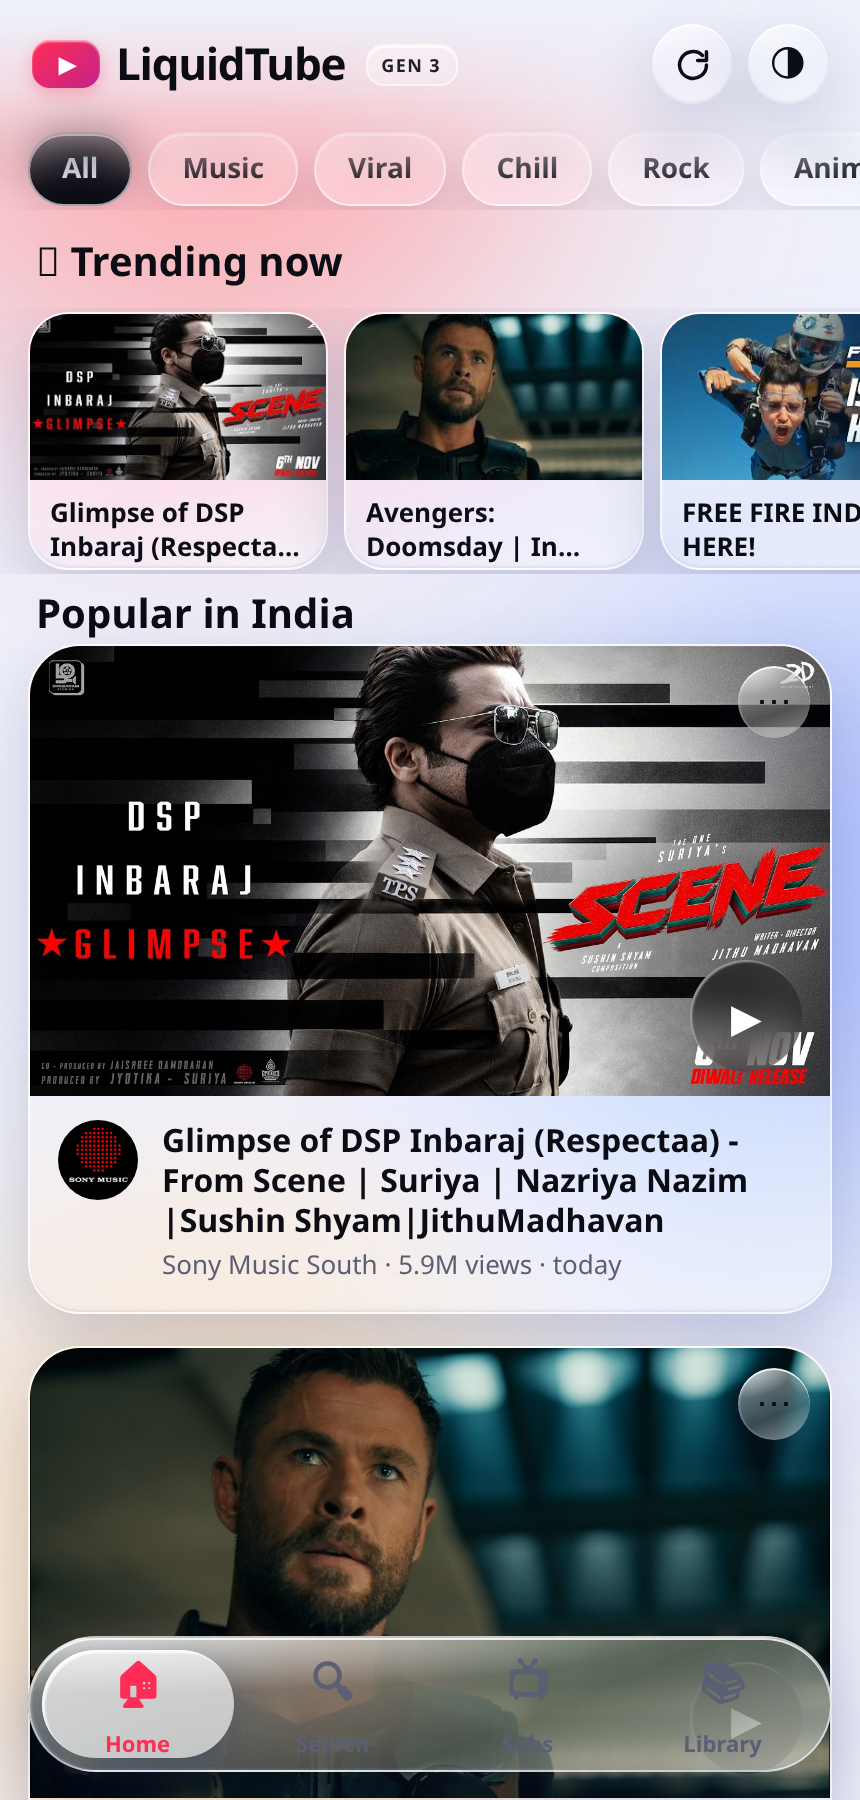
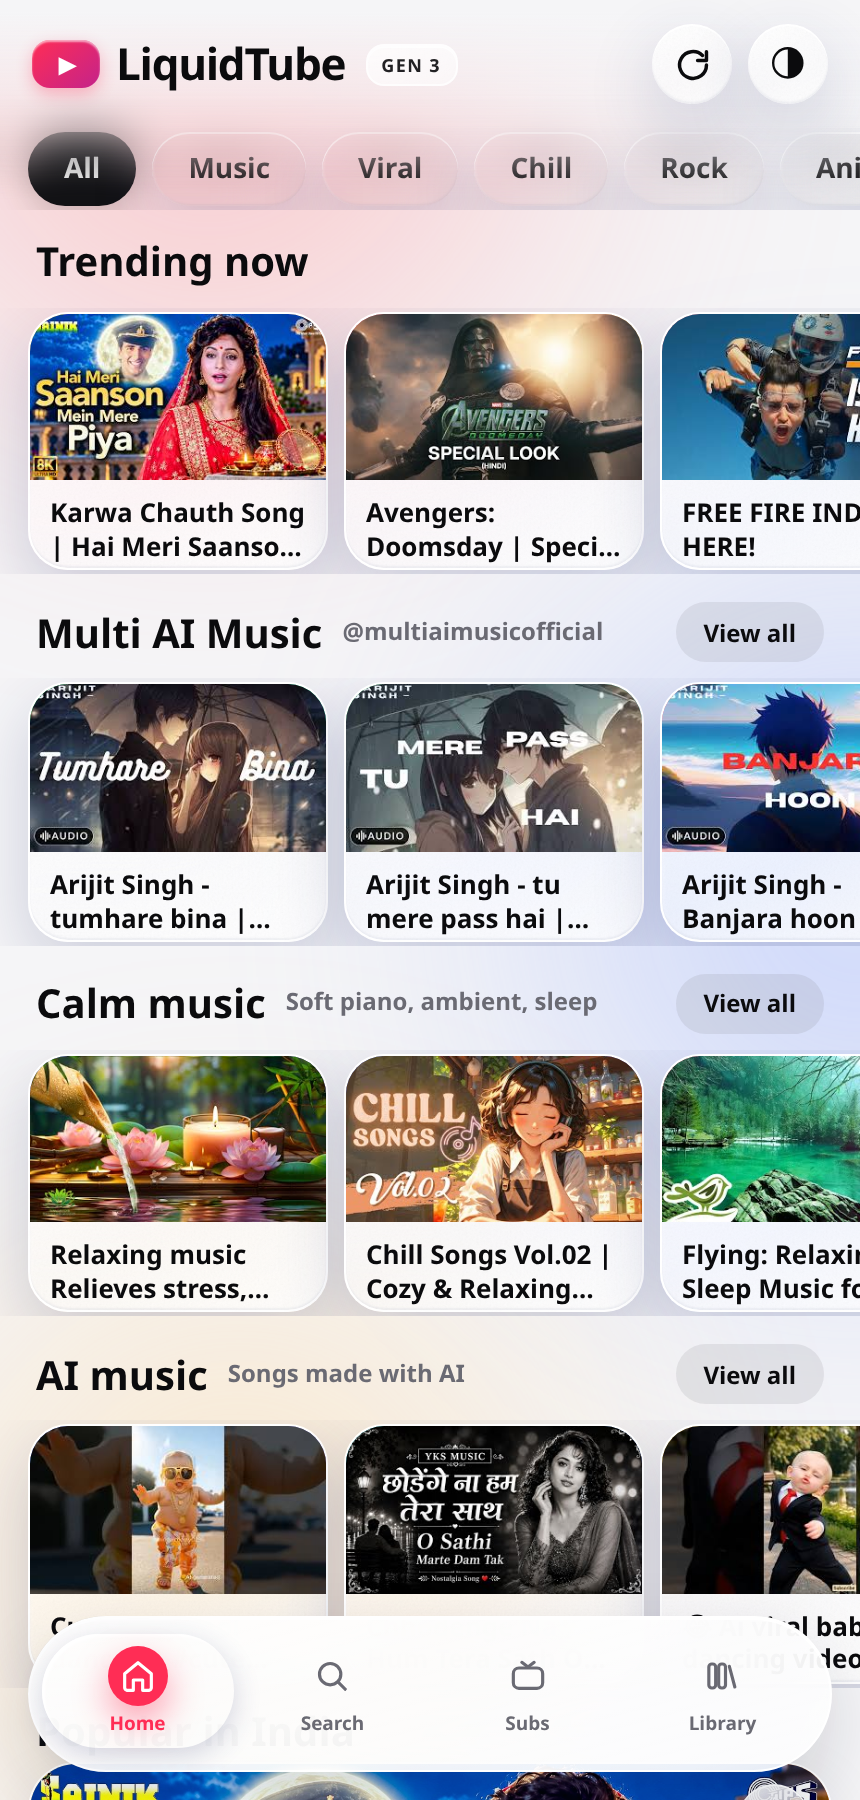
LiquidTube 5.0 — concept-video redesign pass
- Light palette switched to YouTube-white with near-black type; blobs at 42%.
- Chips: solid near-black when selected, soft grey glass otherwise.
- Cards: 24px radius, soft shadow, Play pill on the meta row.
- Section headers carry a View all pill; the trailing chip is gone.
- Dock rebuilt as the concept's floating white pill with drawn outline icons and a
  red circle behind the active tab (nav element now carries class 'dock').
- Restored the home shelves (Multi AI Music channel row, Calm music, AI music) that
  had gone missing from the shipped source.
- All existing features kept: search, channel sections, player toggles, loop via
  jsapi, refresh, splash, comments, library.
- APK rebuilt as versionCode 20 / versionName 5.0.

diff --git a/app/assets/index.html b/app/assets/index.html
@@ -5,8 +5,8 @@
 <meta name="viewport" content="width=device-width, initial-scale=1, viewport-fit=cover">
 <title>LiquidTube</title>
 <style>
-/* sheets */:root{--sh1:rgba(255,255,255,.86);--sh2:rgba(255,255,255,.70);--g1:rgba(255,255,255,.50);--g2:rgba(255,255,255,.20);--gedge:rgba(255,255,255,.62);--gshine:rgba(255,255,255,.85);--gdark:rgba(120,140,200,.16);--gblur:blur(38px) saturate(190%);
---bg:#eef0fa;--tx:#0b0c14;--tx2:#5b5f73;--glass:rgba(255,255,255,.42);--glass2:rgba(255,255,255,.66);--edge:rgba(255,255,255,.85);--edge2:rgba(255,255,255,.22);--sh:rgba(40,50,110,.2);--red:#ff2d55;--b1:#ff9a9e;--b2:#9db4ff;--b3:#ffd9a0;color-scheme:light;box-sizing:border-box;padding-top:env(safe-area-inset-top,0px);padding-bottom:env(safe-area-inset-bottom,0px)}
+/* sheets */:root{--sh1:rgba(255,255,255,.86);--sh2:rgba(255,255,255,.70);--g1:rgba(255,255,255,.86);--g2:rgba(255,255,255,.58);--gedge:rgba(255,255,255,.95);--gshine:rgba(255,255,255,.98);--gdark:rgba(120,130,160,.10);--gblur:blur(38px) saturate(190%);
+--bg:#f5f5f7;--tx:#0b0b0d;--tx2:#6a6a73;--glass:rgba(255,255,255,.42);--glass2:rgba(255,255,255,.66);--edge:rgba(255,255,255,.85);--edge2:rgba(255,255,255,.22);--sh:rgba(40,50,110,.2);--red:#ff2d55;--b1:#ff9a9e;--b2:#9db4ff;--b3:#ffd9a0;color-scheme:light;box-sizing:border-box;padding-top:env(safe-area-inset-top,0px);padding-bottom:env(safe-area-inset-bottom,0px)}
 @media(prefers-color-scheme:dark){:root:not([data-theme="light"]){--bg:#0a0a14;--tx:#f4f5fb;--tx2:#a3a7bd;--glass:rgba(40,44,70,.42);--glass2:rgba(70,76,115,.62);--edge:rgba(255,255,255,.3);--edge2:rgba(255,255,255,.05);--sh:rgba(0,0,0,.55);--b1:#a3224a;--b2:#3a4fc4;--b3:#a8641c;color-scheme:dark;--g1:rgba(66,72,110,.46);--g2:rgba(24,28,46,.24);--gedge:rgba(255,255,255,.15);--gshine:rgba(255,255,255,.22);--gdark:rgba(0,0,0,.4);--sh1:rgba(44,48,76,.88);--sh2:rgba(22,26,42,.80)}}
 :root[data-theme="dark"]{--bg:#0a0a14;--tx:#f4f5fb;--tx2:#a3a7bd;--glass:rgba(40,44,70,.42);--glass2:rgba(70,76,115,.62);--edge:rgba(255,255,255,.3);--edge2:rgba(255,255,255,.05);--sh:rgba(0,0,0,.55);--b1:#a3224a;--b2:#3a4fc4;--b3:#a8641c;color-scheme:dark;--g1:rgba(66,72,110,.46);--g2:rgba(24,28,46,.24);--gedge:rgba(255,255,255,.15);--gshine:rgba(255,255,255,.22);--gdark:rgba(0,0,0,.4);--sh1:rgba(44,48,76,.88);--sh2:rgba(22,26,42,.80)}
 *{box-sizing:border-box;-webkit-tap-highlight-color:transparent}
@@ -14,7 +14,7 @@ html,body{height:100%;margin:0;background:var(--bg);color:var(--tx);font-family:
 body{display:flex;justify-content:center;align-items:center;overflow:hidden}
 .phone{position:relative;width:100%;max-width:430px;height:100%;max-height:900px;overflow:hidden;background:var(--bg)}
 @media(min-width:500px){.phone{height:min(880px,96%);border-radius:48px;box-shadow:0 0 0 10px #15161d,0 30px 80px var(--sh)}}
-.blob{position:absolute;border-radius:50%;filter:blur(64px);opacity:.78;animation:fl 16s ease-in-out infinite alternate}
+.blob{position:absolute;border-radius:50%;filter:blur(70px);opacity:.42;animation:fl 16s ease-in-out infinite alternate}
 .b1{width:300px;height:300px;background:var(--b1);top:-70px;left:-80px}.b2{width:280px;height:280px;background:var(--b2);top:360px;right:-100px;animation-delay:-5s}.b3{width:280px;height:280px;background:var(--b3);bottom:-60px;left:-50px;animation-delay:-10s}
 @keyframes fl{to{transform:translate(40px,-50px) scale(1.15)}}
 @media(prefers-color-scheme:dark){:root:not([data-theme="light"]) .blob{opacity:.62}}
@@ -44,18 +44,20 @@ body{display:flex;justify-content:center;align-items:center;overflow:hidden}
 .rb{width:40px;height:40px;border-radius:50%;border:0;color:var(--tx);font-size:18px;cursor:pointer}
 main{position:absolute;inset:0;overflow-y:auto;padding:64px 14px 120px;scrollbar-width:none}main::-webkit-scrollbar{display:none}
 .chips{display:flex;gap:8px;overflow-x:auto;margin:0 -14px 12px;padding:2px 14px;scrollbar-width:none}
-.chip{flex:none;padding:8px 16px;border-radius:18px;border:1px solid var(--gedge);font:inherit;font-size:14px;font-weight:700;color:var(--tx);cursor:pointer;
-  background:linear-gradient(158deg,var(--g1),var(--g2));-webkit-backdrop-filter:blur(22px) saturate(180%);backdrop-filter:blur(22px) saturate(180%);
-  box-shadow:inset 0 1px 0 var(--gshine),0 6px 18px rgba(40,50,110,.12);transition:transform .3s cubic-bezier(.22,1,.36,1)}
+.chip{flex:none;padding:9px 18px;border-radius:999px;border:0;font:inherit;font-size:14px;font-weight:700;color:var(--tx);cursor:pointer;
+  background:rgba(120,120,130,.12);-webkit-backdrop-filter:blur(20px) saturate(180%);backdrop-filter:blur(20px) saturate(180%);
+  transition:transform .3s cubic-bezier(.22,1,.36,1),background .25s ease,color .25s ease}
 .chip:active{transform:scale(.96)}
-.chip.on{background:var(--tx);color:var(--bg)}
-.v{border-radius:26px;overflow:hidden;margin-bottom:16px;cursor:pointer}
+.chip.on{background:#111114;color:#fff;box-shadow:0 6px 18px rgba(0,0,0,.18)}
+.v{border-radius:24px;overflow:hidden;margin-bottom:18px;cursor:pointer;box-shadow:0 10px 30px rgba(20,24,50,.10)}
 .th{height:200px;display:grid;place-items:center;font-size:72px;position:relative}
 .v .th{height:auto;aspect-ratio:16/9;border-radius:0}
 .v .th img{object-position:center}
 .th .pl{position:absolute;width:56px;height:56px;border-radius:50%;display:grid;place-items:center;font-size:20px;right:14px;bottom:12px;color:#fff;background:rgba(0,0,0,.35);backdrop-filter:blur(10px);box-shadow:inset 1px 1px 1px rgba(255,255,255,.5)}
 .th img{position:absolute;inset:0;width:100%;height:100%;object-fit:cover}
-.mt{display:flex;gap:12px;padding:12px 14px 14px}
+.mt{display:flex;gap:12px;padding:13px 14px 15px;align-items:flex-start}
+.mt .col{flex:1;min-width:0}
+.playpill{flex:none;display:inline-flex;align-items:center;gap:6px;height:34px;padding:0 15px;border-radius:999px;background:rgba(120,120,130,.14);color:var(--tx);font-size:13px;font-weight:800;border:0}
 .av{width:40px;height:40px;border-radius:50%;flex:none;display:grid;place-items:center;font-weight:800;color:#fff;font-size:16px;box-shadow:inset 1px 1px 1px rgba(255,255,255,.5)}
 .mt b{display:block;font-size:16px;line-height:1.25}.mt span{font-size:13px;color:var(--tx2)}
 .sbar{display:flex;align-items:center;gap:10px;border-radius:24px;padding:0 16px;height:50px;
@@ -68,7 +70,9 @@ main{position:absolute;inset:0;overflow-y:auto;padding:64px 14px 120px;scrollbar
 .row .txt{flex:1;min-width:0;padding-top:2px}
 .row b{font-size:14.5px;display:-webkit-box;-webkit-line-clamp:2;-webkit-box-orient:vertical;overflow:hidden;line-height:1.32}
 .row span{display:block;font-size:12px;color:var(--tx2);margin-top:4px;line-height:1.35}
-h2{font-size:20px;margin:18px 4px 10px}
+h2{font-size:20px;margin:18px 4px 10px;display:flex;align-items:center;justify-content:space-between;gap:10px;flex-wrap:nowrap;white-space:nowrap}
+h2 .vw{overflow:hidden;text-overflow:ellipsis;min-width:0;flex:1}
+.seeall{flex:none;height:30px;padding:0 14px;border-radius:999px;border:0;background:rgba(120,120,130,.14);color:var(--tx);font:inherit;font-size:12px;font-weight:800;cursor:pointer}
 .mini{flex:none;width:150px;border-radius:20px;overflow:hidden;cursor:pointer;align-self:flex-start}.mini .th{height:auto;aspect-ratio:16/9;font-size:36px}.mini b{display:-webkit-box;-webkit-line-clamp:2;-webkit-box-orient:vertical;overflow:hidden;font-size:13px;padding:8px 10px 11px;line-height:1.3;max-height:3.4em}
 #shorts{position:absolute;inset:0;z-index:4;overflow-y:scroll;scroll-snap-type:y mandatory;display:none;scrollbar-width:none}#shorts::-webkit-scrollbar{display:none}
 .sx{height:100%;scroll-snap-align:start;scroll-snap-stop:always;position:relative;display:grid;place-items:center;padding:62px 0 96px}
@@ -141,6 +145,25 @@ nav button.on{color:var(--red);background:var(--glass2);box-shadow:inset 1.5px 1
   color:var(--tx);background:linear-gradient(158deg,var(--g1),var(--g2));border:1px solid var(--gedge);
   box-shadow:inset 0 1px 0 var(--gshine);-webkit-backdrop-filter:blur(14px);backdrop-filter:blur(14px);opacity:.9}
 :focus-visible{outline:2px solid var(--red);outline-offset:2px}
+
+/* ---- dock (v5, matches the concept) ---- */
+nav.dock{height:78px;border-radius:39px;padding:8px 6px 11px;display:flex;gap:2px;
+  background:linear-gradient(165deg,rgba(255,255,255,.97),rgba(255,255,255,.86));
+  border:1px solid rgba(255,255,255,.98);
+  -webkit-backdrop-filter:blur(38px) saturate(190%);backdrop-filter:blur(38px) saturate(190%);
+  box-shadow:inset 0 1px 0 #fff,0 14px 38px rgba(20,24,50,.16)}
+nav.dock .dock-pill{display:none!important}
+nav.dock button{flex:1;display:flex;flex-direction:column;align-items:center;justify-content:center;gap:2px;
+  border:0;background:none;color:#6a6a73;font:inherit;font-size:9.5px;font-weight:700;cursor:pointer;padding:0;border-radius:30px}
+nav.dock button svg{width:30px;height:30px;padding:5px;box-sizing:border-box;border-radius:50%;
+  fill:none;stroke:currentColor;stroke-width:1.9;stroke-linecap:round;stroke-linejoin:round;background:transparent;
+  transition:background .28s ease,color .28s ease,transform .3s cubic-bezier(.22,1,.36,1)}
+nav.dock button:active svg{transform:scale(.9)}
+nav.dock button.on{color:#111114}
+nav.dock button.on svg{background:var(--red);color:#fff;box-shadow:0 8px 18px rgba(255,0,51,.38)}
+nav.dock button.on span{color:var(--red);font-weight:800}
+@media(prefers-color-scheme:dark){:root:not([data-theme="light"]) nav.dock{background:linear-gradient(165deg,rgba(58,62,92,.94),rgba(26,30,46,.88));border-color:rgba(255,255,255,.16)}}
+:root[data-theme="dark"] nav.dock{background:linear-gradient(165deg,rgba(58,62,92,.94),rgba(26,30,46,.88));border-color:rgba(255,255,255,.16)}
 </style>
 </head>
 <body>
@@ -196,7 +219,7 @@ img.av{width:40px;height:40px;border-radius:50%;object-fit:cover;flex:none;backg
   <div class="topscrim"></div>
   <div class="top"><div class="logo"><i>▶</i>LiquidTube<span class="gen">GEN 3</span></div><div style="display:flex;gap:8px"><button class="rb glass" id="rf" aria-label="Refresh"><svg viewBox="0 0 24 24" aria-hidden="true"><path d="M20.5 12a8.5 8.5 0 1 1-2.49-6.01"/><path d="M20.5 3.6v5.6h-5.6"/></svg></button><button class="rb glass" id="th" aria-label="Toggle theme">🌗</button></div></div>
   <main id="main"></main>
-  <nav class="glass" id="nav"></nav>
+  <nav class="dock" id="nav"></nav>
   <div id="shorts"></div>
   <div class="md" id="md"></div>
   <div class="pl8" id="pl"></div>
@@ -252,7 +275,67 @@ const save=()=>{try{localStorage.setItem('lt',JSON.stringify(S))}catch(e){}};
 const V={},CH={},FEED={trending:null,loading:false,error:''};
 FALL.forEach(v=>V[v.id]=v);
 let tab='home',cat='All',q='',cur=null,chanId='';
-const TABS=[['home','🏠','Home'],['shorts','🎬','Shorts'],['search','🔍','Search'],['subs','📺','Subs'],['lib','📚','Library']];
+const SHELVES=[
+  {id:'multiai',title:'Multi AI Music',sub:'Latest uploads',kind:'channel',ch:'UCNf1ThUNWLARtz8m86xOp1A'},
+  {id:'calm',title:'Calm music',sub:'Soft piano, ambient, sleep',q:'calm relaxing music playlist'},
+  {id:'aimusic',title:'AI music',sub:'Songs made with AI',q:'AI generated music song'}
+];
+let SHELF={};try{SHELF=JSON.parse(localStorage.getItem('lt_shelf')||'{}')||{}}catch(e){SHELF={}}
+const saveShelf=()=>{try{localStorage.setItem('lt_shelf',JSON.stringify(SHELF))}catch(e){}};
+function shelfItems(sh){
+  const e=SHELF[sh.id];
+  if(!e||!e.items||!e.items.length)return null;
+  if(Date.now()-(e.at||0)>12*3600e3)return null;
+  e.items.forEach(it=>vObj(it.id,it));
+  return e.items.map(it=>V[it.id]).filter(Boolean);
+}
+async function loadShelf(sh){
+  const c=shelfItems(sh);if(c)return c;
+  let list=[];
+  if(sh.kind==='channel'){
+    const ch=await ensureChannel(sh.ch);
+    if(!ch.up)throw new Error('no public uploads');
+    const j=await yt('playlistItems',{part:'snippet,contentDetails',playlistId:ch.up,maxResults:12});
+    list=(j.items||[]).filter(it=>it.snippet&&it.snippet.resourceId&&it.snippet.resourceId.videoId)
+      .map(it=>vObj(it.snippet.resourceId.videoId,{t:it.snippet.title,c:ch.title,ch:sh.ch,
+        img:bestTh(it.snippet.thumbnails),
+        pub:(it.contentDetails&&it.contentDetails.videoPublishedAt)||it.snippet.publishedAt,cat:sh.title}));
+  }else{
+    const j=await yt('search',{part:'snippet',type:'video',maxResults:10,q:sh.q});
+    list=(j.items||[]).filter(it=>it.id&&it.id.videoId).map(it=>vObj(it.id.videoId,
+      {t:it.snippet.title,c:it.snippet.channelTitle,ch:it.snippet.channelId,
+       img:bestTh(it.snippet.thumbnails),pub:it.snippet.publishedAt,cat:sh.title}));
+    await loadChannels(list.map(v=>v.ch));
+  }
+  SHELF[sh.id]={at:Date.now(),items:list.map(v=>({id:v.id,t:v.t,c:v.c,ch:v.ch,img:v.img,pub:v.pub,views:v.views}))};
+  saveShelf();
+  return list;
+}
+const shelfRow=sh=>{
+  const list=(shelfItems(sh)||[]).filter(ok).slice(0,8);
+  if(!list.length)return '';
+  return list.map(v=>'<div class="mini glass" data-v="'+v.id+'">'+thumb(v,'mini').replace('<div class="pl">▶</div>','')+'<b>'+esc(v.t)+'</b></div>').join('');
+};
+async function loadShelves(){
+  for(const sh of SHELVES){
+    if(shelfItems(sh))continue;
+    const box=document.getElementById('sh-'+sh.id);
+    if(!box)continue;
+    try{
+      await loadShelf(sh);
+      const b=document.getElementById('sh-'+sh.id);
+      if(b)b.innerHTML=shelfRow(sh);
+      if(sh.kind==='channel'){
+        const h=document.getElementById('h-'+sh.id),c=CH[sh.ch];
+        if(h&&c)h.innerHTML=esc(sh.title)+' <span class="vw" style="font-weight:600">'+esc(c.handle)+'</span><button class="seeall" data-ch="'+esc(sh.ch)+'">View all</button>';
+      }
+    }catch(e){
+      const b=document.getElementById('sh-'+sh.id);
+      if(b)b.innerHTML='';
+    }
+  }
+}
+const TABS=[['home','<svg viewBox="0 0 24 24"><path d="M4 10.6 12 4l8 6.6V19a1.6 1.6 0 0 1-1.6 1.6h-3.6v-6.2H9.2v6.2H5.6A1.6 1.6 0 0 1 4 19z"/></svg>','Home'],['shorts','<svg viewBox="0 0 24 24"><rect x="4.4" y="3.4" width="15.2" height="17.2" rx="5"/><path d="M10.4 9.3 15 12l-4.6 2.7z"/></svg>','Shorts'],['search','<svg viewBox="0 0 24 24"><circle cx="10.9" cy="10.9" r="6.4"/><path d="M15.7 15.7 20.4 20.4"/></svg>','Search'],['subs','<svg viewBox="0 0 24 24"><rect x="3.2" y="7.2" width="17.6" height="12.2" rx="3.4"/><path d="M8.3 3.8 12 6.6l3.7-2.8"/></svg>','Subs'],['lib','<svg viewBox="0 0 24 24"><rect x="4.1" y="4.8" width="4.1" height="14.4" rx="1.8"/><rect x="10" y="4.8" width="4.1" height="14.4" rx="1.8"/><path d="M16.4 6.2l3.3 12.4"/></svg>','Library']];
 const CATS=['Music','Viral','Chill','Rock','Animation','Kids'];
 
 /* ---------------- helpers ---------------- */
@@ -360,7 +443,7 @@ function wireDesc(id){
   if(!b||!m)return;
   m.onclick=()=>{const open=b.classList.toggle('open');m.textContent=open?'Show less':'Show more';m.setAttribute('aria-expanded',open?'true':'false')};
 }
-const card=v=>'<div class="v glass" data-v="'+v.id+'"><button class="rb glass kb" data-k="'+v.id+'" aria-label="Options">⋯</button>'+thumb(v,'card')+'<div class="mt">'+avOf(v)+'<div><b>'+esc(v.t)+'</b><span>'+esc(v.c)+(meta(v)?' · '+esc(meta(v)):'')+'</span></div></div></div>';
+const card=v=>'<div class="v glass" data-v="'+v.id+'"><button class="rb glass kb" data-k="'+v.id+'" aria-label="Options">⋯</button>'+thumb(v,'card')+'<div class="mt">'+avOf(v)+'<div class="col"><b>'+esc(v.t)+'</b><span>'+esc(v.c)+(meta(v)?' · '+esc(meta(v)):'')+'</span></div><div class="playpill">▶ Play</div></div></div>';
 const chRow=c=>'<div class="row glass" data-ch="'+c.id+'"><img class="av" src="'+esc(c.av)+'" alt="" data-n="'+esc(c.title)+'" onerror="this.onerror=null;this.src=PH(this.dataset.n)"><div style="flex:1;min-width:0"><b>'+esc(c.title)+'</b><span>'+esc(c.handle)+(c.subs?' · '+num(c.subs)+' subscribers':'')+(c.vids&&+c.vids?' · '+num(c.vids)+' videos':'')+'</span></div></div>';
 const avMini=v=>{const c=v.ch?CH[v.ch]:null;return c&&c.av?'<img class="miniav" src="'+esc(c.av)+'" alt="" loading="lazy" data-n="'+esc(c.title)+'" onerror="this.onerror=null;this.src=PH(this.dataset.n)">':''};
 const rowv=v=>'<div class="row glass kr" data-v="'+v.id+'"><button class="rb glass kb" data-k="'+v.id+'" aria-label="Options">⋯</button>'+thumb(v,'row').replace('<div class="pl">▶</div>','')+'<div class="txt"><b>'+esc(v.t)+'</b><span>'+avMini(v)+esc(v.c)+(meta(v)?' · '+esc(meta(v)):'')+'</span></div></div>';
@@ -374,7 +457,7 @@ function catVids(n){const c=S.cats[n];if(!c)return [];const k=c.kw.split(',').ma
 
 /* ---------------- views ---------------- */
 function render(){
-  $('#nav').innerHTML=TABS.filter(t=>!(S.ns&&t[0]==='shorts')).map(t=>'<button data-t="'+t[0]+'" class="'+(t[0]===tab?'on':'')+'"><i>'+t[1]+'</i>'+t[2]+'</button>').join('');
+  $('#nav').innerHTML=TABS.filter(t=>!(S.ns&&t[0]==='shorts')).map(t=>'<button data-t="'+t[0]+'" class="'+(t[0]===tab?'on':'')+'">'+t[1]+'<span>'+t[2]+'</span></button>').join('');
   if(S.ns&&tab==='shorts')tab='home';
   const m=$('#main');let h='';
   if(tab==='home'){
@@ -382,7 +465,16 @@ function render(){
     const list=cat==='All'?feed():(S.cats[cat]?catVids(cat):feed().filter(v=>v.cat===cat));
     h='<div class="chips">'+cs.map(c=>'<button class="chip glass '+(c===cat?'on':'')+'" data-c="'+esc(c)+'">'+esc(c)+'</button>').join('')+'<button class="chip glass" id="nc">＋ New</button></div>';
     if(S.cats[cat])h+='<div class="hint" style="display:flex;justify-content:space-between;align-items:center">'+esc(S.cats[cat].kw?'Topic keywords: '+S.cats[cat].kw:'Manual category')+'<button class="act glass" id="dc">Delete</button></div>';
-    if(cat==='All'&&S.opt.sg&&list.length)h+='<h2 style="margin:4px 4px 10px">🔥 Trending now</h2><div class="chips" style="margin-bottom:6px">'+list.slice(0,7).map(v=>'<div class="mini glass" data-v="'+v.id+'">'+thumb(v,'mini').replace('<div class="pl">▶</div>','')+'<b>'+esc(v.t)+'</b></div>').join('')+'</div>';
+    if(cat==='All'&&S.opt.sg&&list.length)h+='<h2 style="margin:4px 4px 10px">Trending now</h2><div class="chips" style="margin-bottom:6px">'+list.slice(0,7).map(v=>'<div class="mini glass" data-v="'+v.id+'">'+thumb(v,'mini').replace('<div class="pl">▶</div>','')+'<b>'+esc(v.t)+'</b></div>').join('')+'</div>';
+    if(cat==='All')h+=SHELVES.map(sh=>{
+      const c=sh.kind==='channel'?CH[sh.ch]:null;
+      const sub=c?c.handle:sh.sub;
+      const action=sh.kind==='channel'
+        ? '<button class="seeall" data-ch="'+esc(sh.ch)+'">View all</button>'
+        : '<button class="seeall" data-shelfq="'+esc(sh.q)+'">View all</button>';
+      return '<h2 id="h-'+sh.id+'" style="margin:14px 4px 8px">'+esc(sh.title)+' <span class="vw" style="font-weight:600">'+esc(sub)+'</span>'+action+'</h2>'+
+        '<div class="chips" id="sh-'+sh.id+'" style="margin-bottom:8px">'+(shelfItems(sh)?shelfRow(sh):'<div class="skel" style="width:150px;height:84px;flex:none;border-radius:20px;margin:0"></div><div class="skel" style="width:150px;height:84px;flex:none;border-radius:20px;margin:0"></div>')+'</div>';
+    }).join('');
     if(cat==='All')h+='<h2 style="margin:4px 4px 2px">'+(FEED.trending?'Popular in India':'Start here')+'</h2>';
     if(FEED.loading&&!FEED.trending)h+='<div class="skel"></div><div class="skel"></div><div class="skel"></div>';
     h+=list.map(card).join('')||'<div class="empty">Nothing here yet. Open a video and tap Category to add it.</div>';
@@ -416,6 +508,7 @@ function render(){
     h+='<h2>Settings</h2><div class="set glass"><b>Preferences</b><button class="act glass '+(S.ns?'on':'')+'" id="ns" style="margin:10px 8px 0 0">Block Shorts: '+(S.ns?'on':'off')+'</button><button class="act glass" id="au" style="margin:10px 8px 0 0">Autoplay: '+(S.opt.auto?'on':'off')+'</button><button class="act glass" id="ck" style="margin-top:10px">Clear history</button></div>';
   }
   m.innerHTML=h;m.style.display=tab==='shorts'?'none':'block';
+  if(tab==='home'&&cat==='All')setTimeout(loadShelves,80);
   shorts();
   if($('#nc'))$('#nc').onclick=catForm;
   if($('#dc'))$('#dc').onclick=()=>{delete S.cats[cat];save();cat='All';render()};
